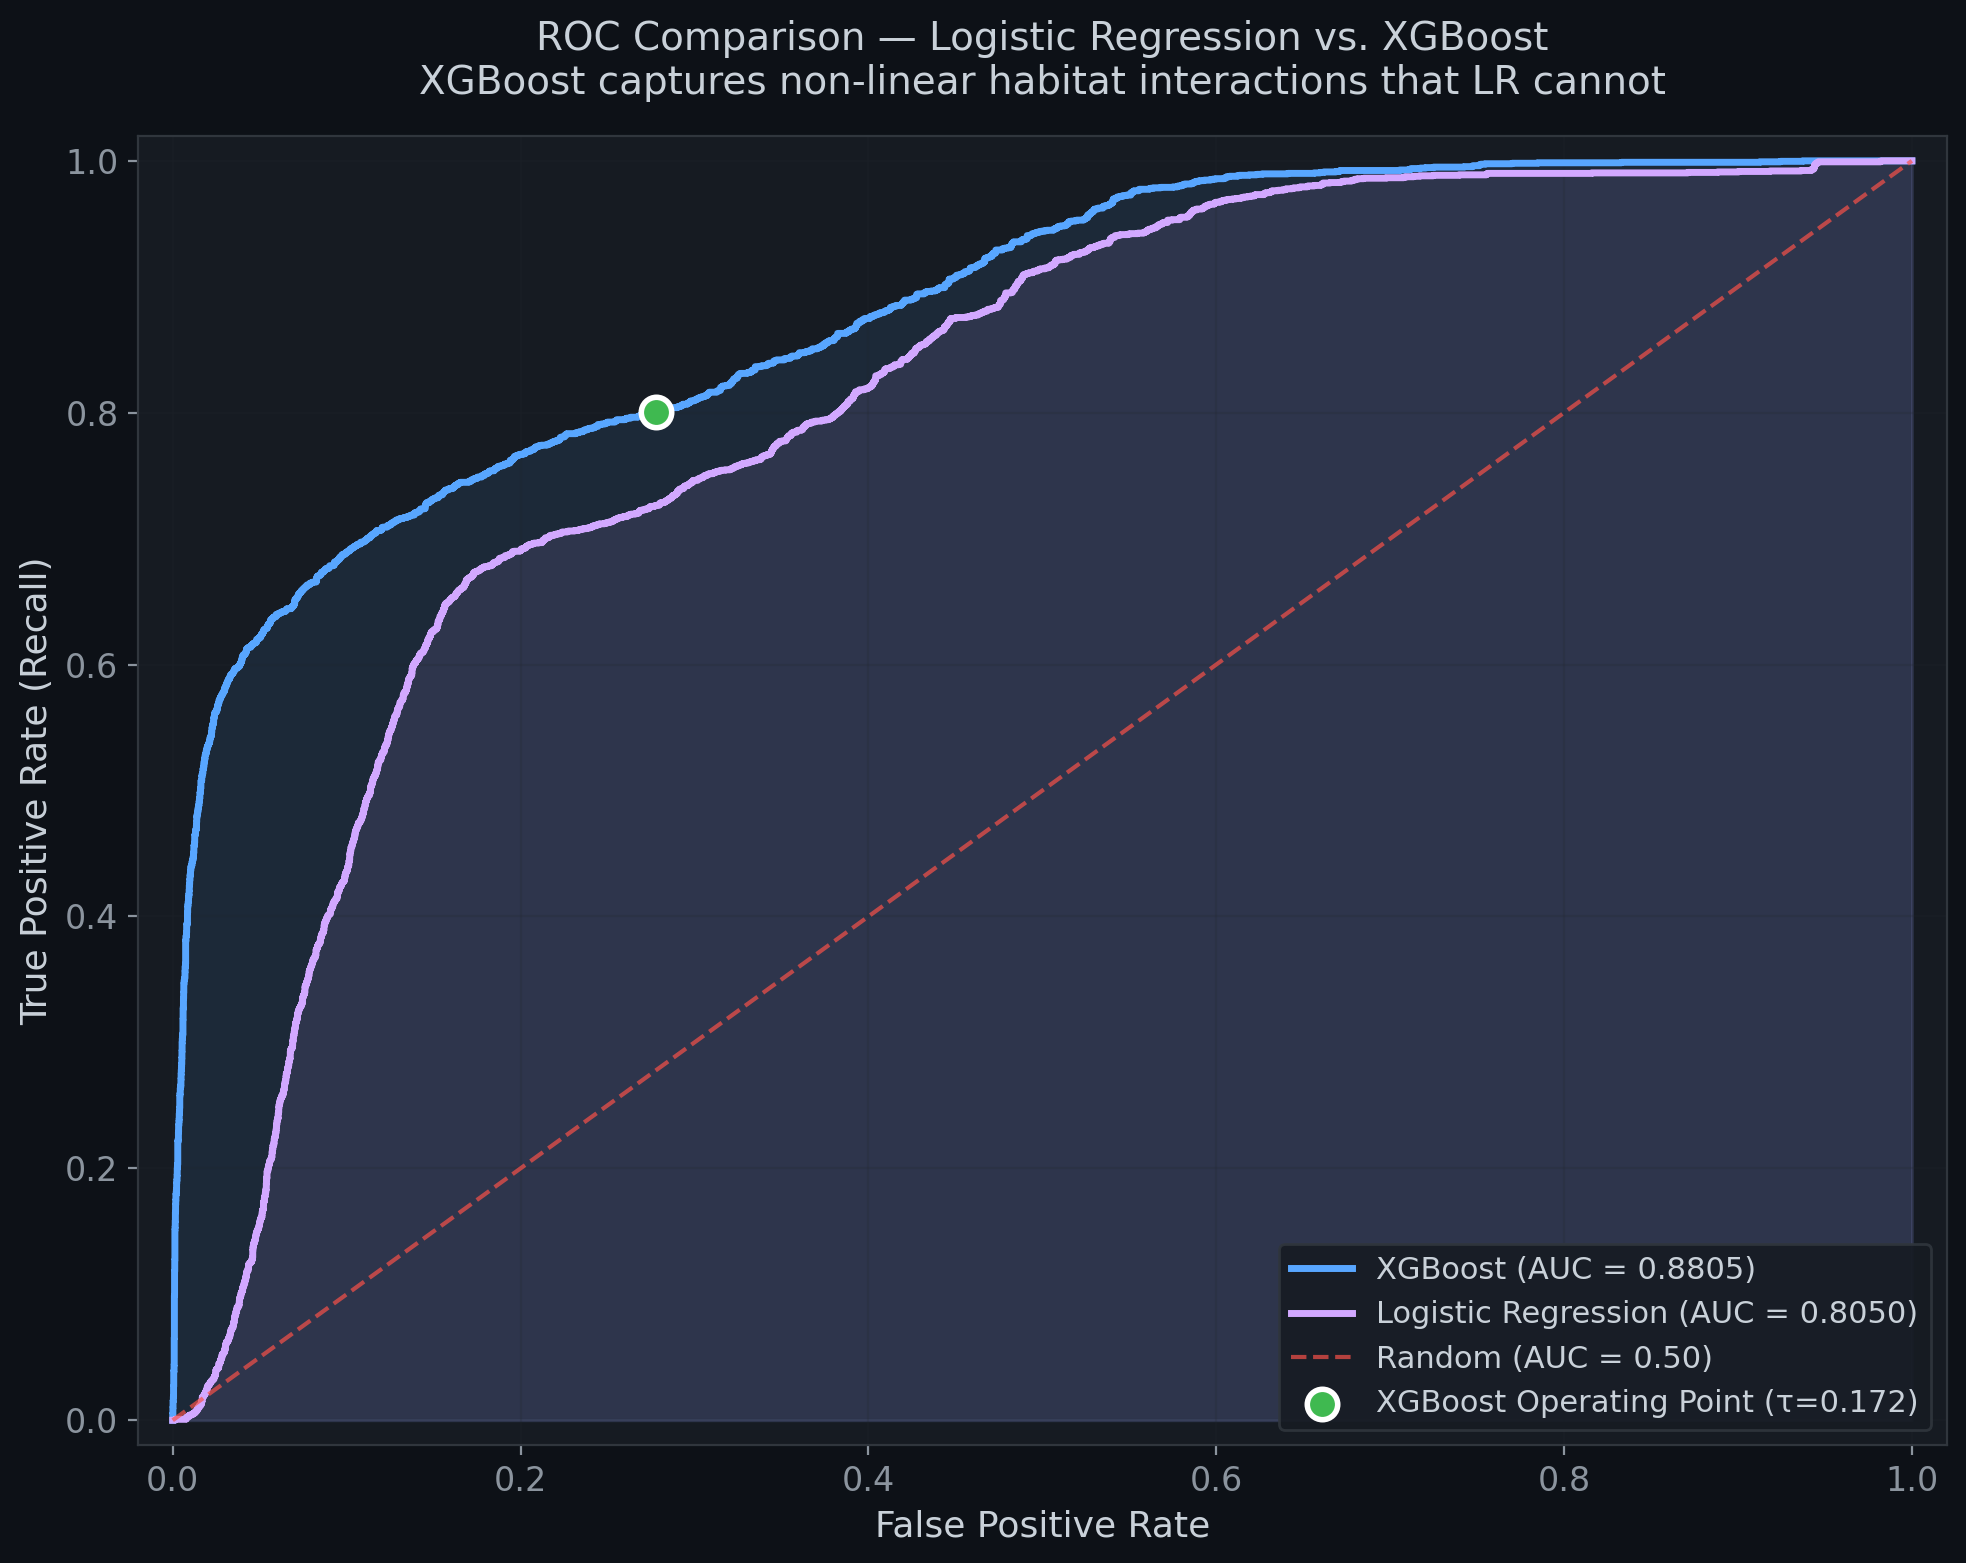
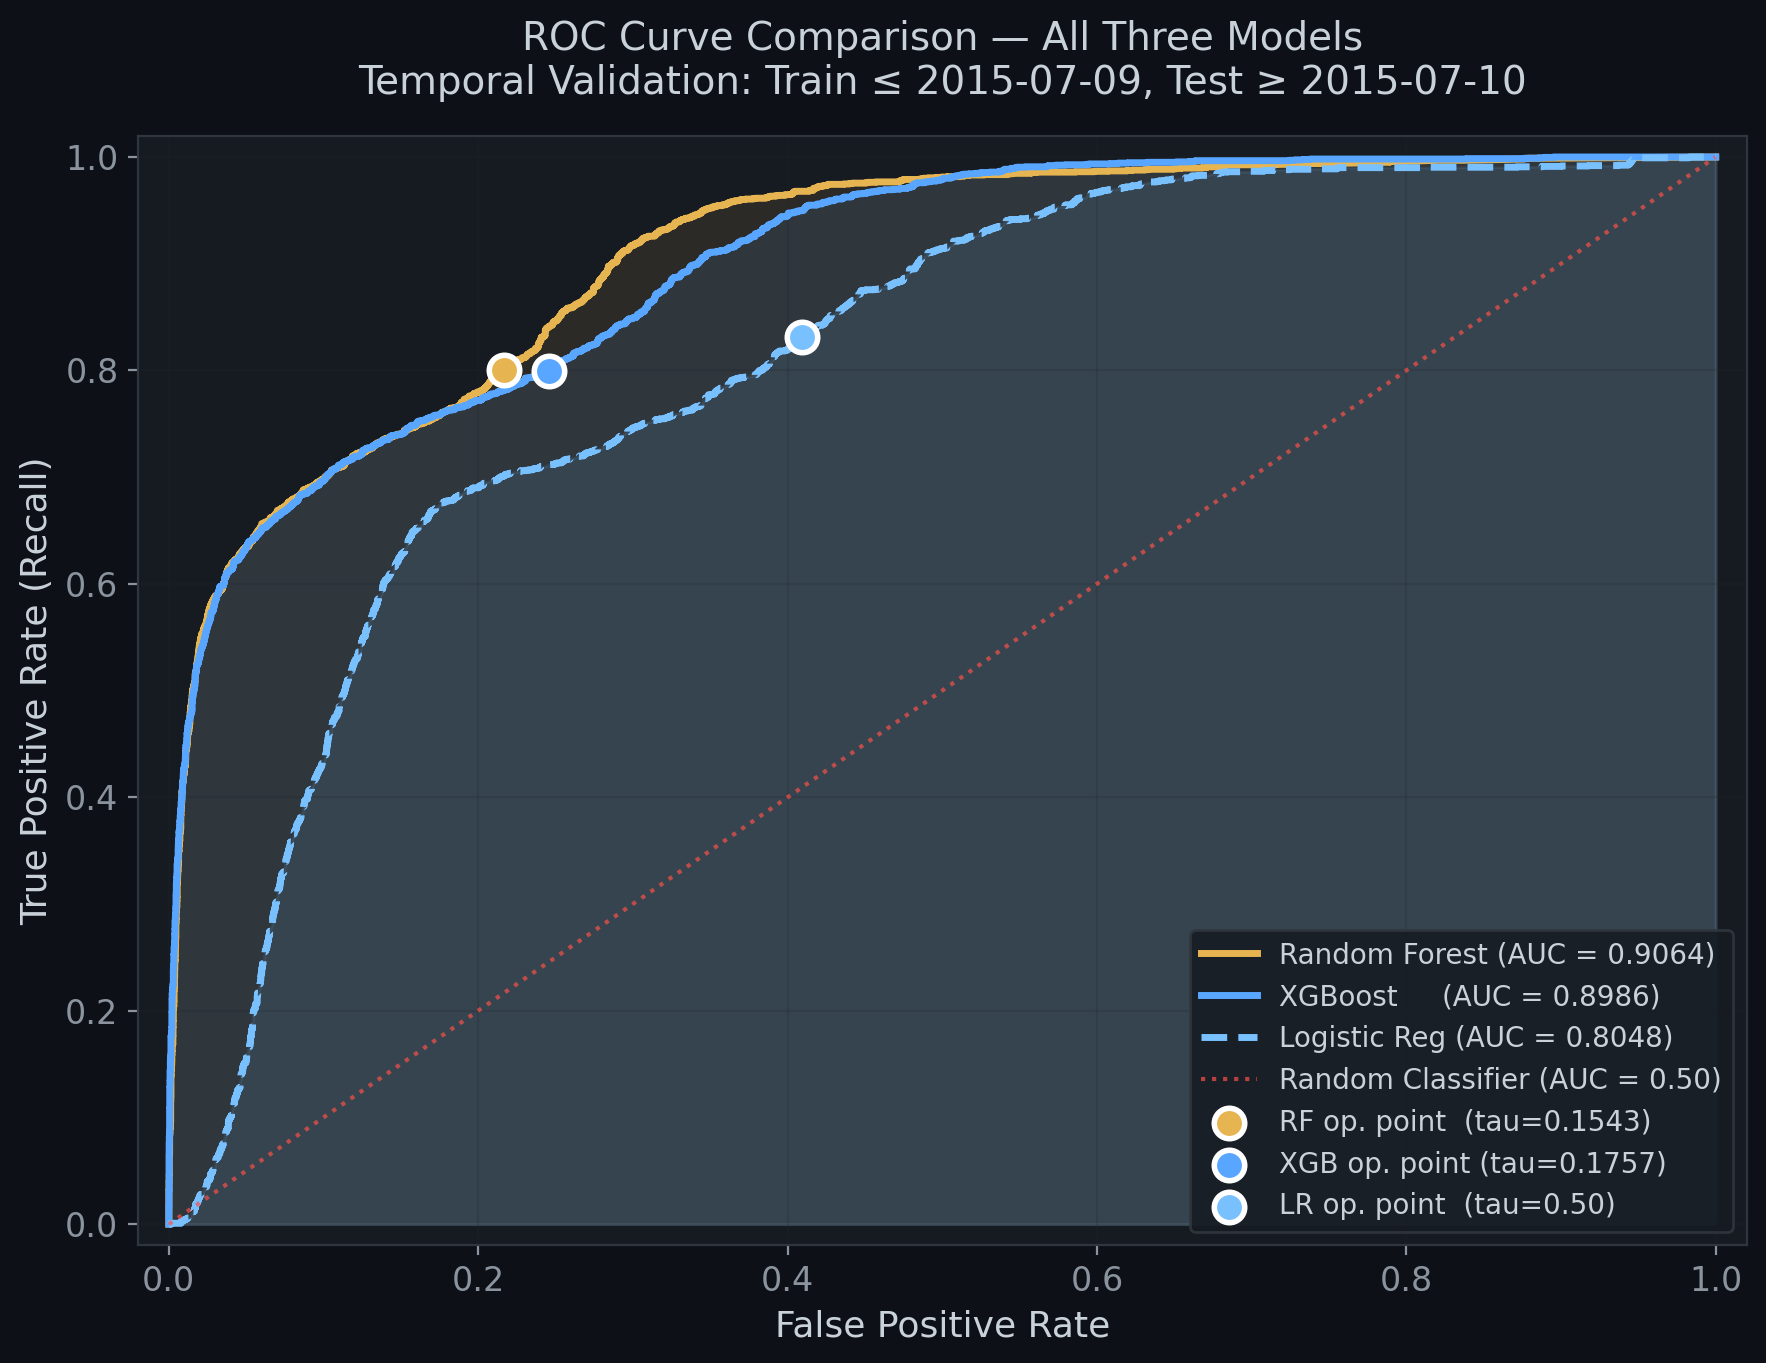
fixed ml walkthrough

diff --git a/dashboard.py b/dashboard.py
@@ -169,10 +169,21 @@ st.title("WhaleGuard — NARW Habitat Prediction")
 st.caption(f"Showing **{MONTH_ABBRS[month]} {year}** · Model: **{model_name}**")
 
 k1, k2, k3, k4 = st.columns(4)
-k1.metric("Grid cells", f"{len(df_view):,}")
-k2.metric("Predicted habitat", f"{df_view['is_habitat'].mean():.1%}")
-k3.metric("Avg. whale probability", f"{df_view['probability'].mean():.3f}")
-k4.metric("Max probability", f"{df_view['probability'].max():.3f}")
+k1.metric("Grid cells", f"{len(df_view):,}",
+          help="Number of 0.25° ocean grid cells covering the Gulf of St. Lawrence for the selected month and year.")
+k2.metric("Predicted habitat", f"{df_view['is_habitat'].mean():.1%}",
+          help=(
+              f"Fraction of grid cells where the model's whale-presence probability "
+              f"meets or exceeds the conservation threshold τ = {threshold:.4f}. "
+              f"A cell above τ is classified as 'predicted habitat' — meaning the model "
+              f"considers it likely enough to contain a NARW that a speed restriction would "
+              f"be warranted. The threshold is set to achieve ≥ 80 % recall, so the model "
+              f"deliberately flags more cells than strictly necessary to avoid missing real whales."
+          ))
+k3.metric("Avg. whale probability", f"{df_view['probability'].mean():.3f}",
+          help="Mean predicted probability of NARW presence across all grid cells this month. Ranges 0–1.")
+k4.metric("Max probability", f"{df_view['probability'].max():.3f}",
+          help="Highest single-cell predicted probability this month — the model's most confident prediction of whale presence.")
 
 # ---------------------------------------------------------------------------
 # Map
@@ -234,22 +245,29 @@ with col_left:
             st.image(str(img_path), use_container_width=True)
         else:
             st.info("Image not found — run training scripts to generate plots.")
+        st.caption(
+            "**Gain** measures the average reduction in prediction error each time a feature "
+            "is used to split a tree node. A high-gain feature (e.g. Dist_to_Shore_km) "
+            "consistently produces accurate, well-separated branches; a low-gain feature "
+            "adds little information when split on. Unlike frequency-based importance, "
+            "gain rewards quality of splits, not just how often a feature is used."
+        )
 
 with col_right:
     with st.expander("About this model"):
         st.markdown(meta["description"])
+        st.divider()
         st.markdown(
             f"""
-| Metric | Value |
-|---|---|
-| ROC-AUC | {meta['auc']} |
-| Recall @ τ | {meta['recall']} |
-| Precision @ τ | {meta['precision']} |
-| F1-Score | {meta['f1']} |
-| Threshold (τ) | {meta['threshold']} |
+| Metric | Value | What it means |
+|---|---|---|
+| **ROC-AUC** | {meta['auc']} | How well the model ranks whale locations above background — 1.0 is perfect, 0.5 is random. |
+| **Recall @ τ** | {meta['recall']} | Of all real whale locations, the fraction correctly flagged. Primary metric — a missed whale risks a ship strike. |
+| **Precision @ τ** | {meta['precision']} | Of all flagged locations, the fraction that actually had a whale. Lower precision = more false alarms, an acceptable trade-off. |
+| **F1-Score** | {meta['f1']} | Harmonic mean of Recall and Precision. |
+| **Threshold (τ)** | {meta['threshold']} | Probability cut-off for "habitat" decisions, tuned below 0.5 to guarantee ≥ 80 % recall. |
 """
         )
         st.caption(
-            "Threshold optimised for ≥ 80 % recall (endangered species precautionary principle). "
-            "False negatives (missed whales) carry far higher cost than false positives (unneeded speed restrictions)."
+            "Evaluated on a temporal hold-out (2015–2018) — data the model never saw during training."
         )

diff --git a/ML_Walkthrough.md b/ML_Walkthrough.md
@@ -308,7 +308,7 @@ All hyperparameters were tuned using `BayesSearchCV` (40 iterations) with `TimeS
 | **F1-Score** | 0.4814 | 0.6669 | 0.5765 | **0.6857** | 0.6016 |
 | **Accuracy** | 0.6393 | 0.8607 | 0.7633 | **0.8938** | 0.7866 |
 
-![ROC comparison — XGBoost dominates LR across all operating points](images/roc_comparison.png)
+![ROC comparison — all three models on the same axes: Random Forest (AUC 0.9064) > XGBoost (0.8986) > Logistic Regression (0.8048). Operating points mark the conservation-optimised threshold for each model](images/roc_comparison.png)
 
 ![Model comparison bar chart showing the progression from baseline to optimised model](images/model_comparison.png)
 
@@ -473,7 +473,7 @@ All model evaluation plots are saved to `images/` at 200 DPI:
 | `roc_curve.png` | XGBoost ROC curve with operating point |
 | `rf_roc_curve.png` | Random Forest ROC curve with operating point |
 | `lr_roc_curve.png` | Logistic regression ROC curve |
-| `roc_comparison.png` | Side-by-side ROC comparison (LR vs XGBoost) |
+| `roc_comparison.png` | Three-model ROC comparison (LR, XGBoost, Random Forest) with operating points |
 | `precision_recall_tradeoff.png` | XGBoost PR curve with recall target line |
 | `rf_precision_recall_tradeoff.png` | Random Forest PR curve with recall target line |
 | `feature_importance.png` | XGBoost gain-based feature ranking |
